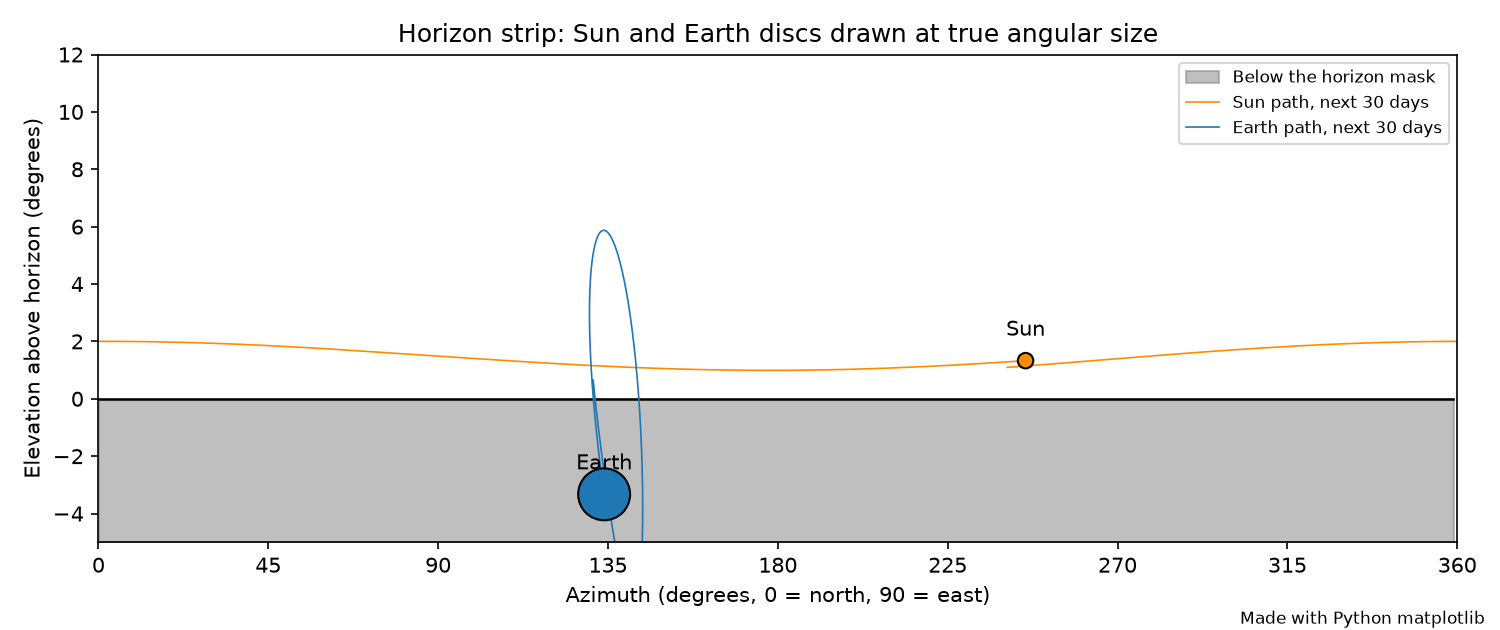
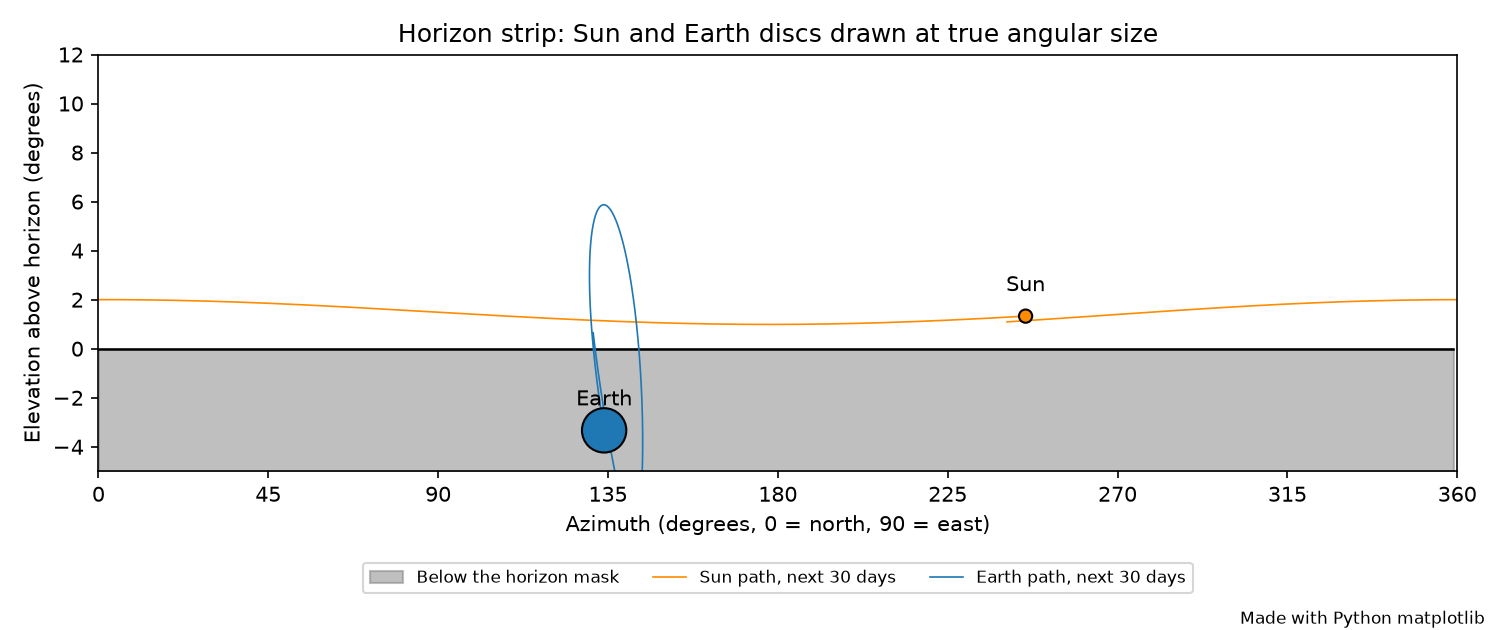
Move horizon strip legend below the plot and add MIT license
The legend overlapped the off-scale label for bodies far above the
horizon. It now sits under the axes. Adds the MIT license and a license
section in the README.

Changed region(s): [[0.0, 0.1508, 0.9813, 0.9651], [0.7667, 0.0905, 0.9813, 0.2413], [0.8587, 0.4524, 0.9507, 0.4825]]

diff --git a/Plots.py b/Plots.py
@@ -135,7 +135,7 @@ def HorizonStripFigure(Track, When, Mask, Result):
     Ax.set_xlabel("Azimuth (degrees, 0 = north, 90 = east)")
     Ax.set_ylabel("Elevation above horizon (degrees)")
     Ax.set_title("Horizon strip: Sun and Earth discs drawn at true angular size")
-    Ax.legend(loc="upper right", fontsize=8)
+    Ax.legend(loc="upper center", bbox_to_anchor=(0.5, -0.2), ncol=3, fontsize=8)
     Fig.tight_layout()
     Box = Ax.get_window_extent()
     XPerY = (360.0 / Box.width) / ((STRIP_Y_MAX - STRIP_Y_MIN) / Box.height)

diff --git a/README.md b/README.md
@@ -119,6 +119,10 @@ Result: PASS. The worst difference is 0.000066 degrees in azimuth and 0.00001 de
 - Power is a Sun-above-horizon test and a simple panel index, not an energy budget. Eclipses of the Sun by Earth are not modeled.
 - Site coordinates come from the public sources listed in `Sites.py` and are only as accurate as those sources.
 
+## License
+
+The LunaWindow code is released under the MIT License (see `LICENSE`). The data files keep their own terms: NASA ephemeris, NAIF kernels, JPL Horizons output and LOLA elevation data are NASA products, which are generally free to reuse with credit, and the site coordinates come from the public sources listed in `Sites.py`. The terrain masks in `Data/` are derived from LOLA data.
+
 ## Contributors
 
 - iceblenderr
